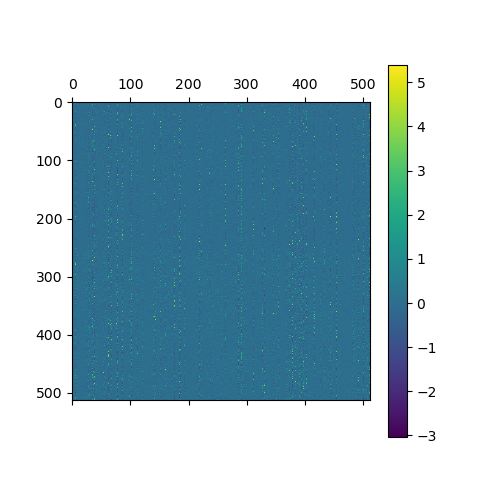
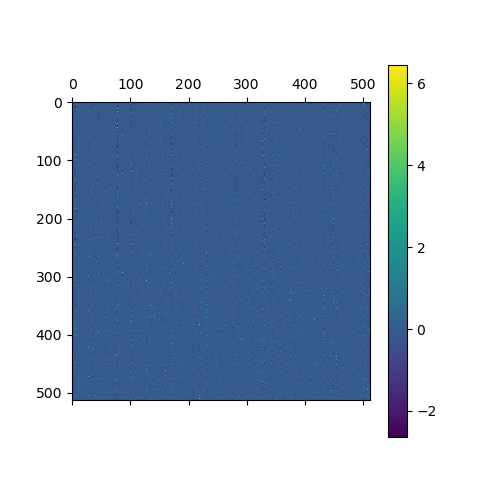
kjln

diff --git a/src/extrapolate_ittt.py b/src/extrapolate_ittt.py
@@ -17,7 +17,7 @@ from utils.loss_utils import lm_loss_fn
 DEVICE = torch.device("cuda" if torch.cuda.is_available() else "cpu")
 
 
-CHECKPOINT_URL = 'aklein4/iTTT-TPU_decay-1b'
+CHECKPOINT_URL = 'aklein4/iTTT-TPU_decay-better-1b'
 CHECKPOINT_STEP = 250
 
 DATA_URL = "Geralt-Targaryen/books3"
@@ -46,7 +46,7 @@ def main():
         beta = mod.get_decay_beta()
         h = -np.log(2) / torch.log(beta)
 
-        plt.matshow(np.log10(h[:, :512].detach().cpu().numpy()))
+        plt.matshow(h[:, :512].detach().cpu().numpy())
         plt.colorbar()
         plt.savefig("ittt_beta.png", dpi=300)
         plt.clf()
